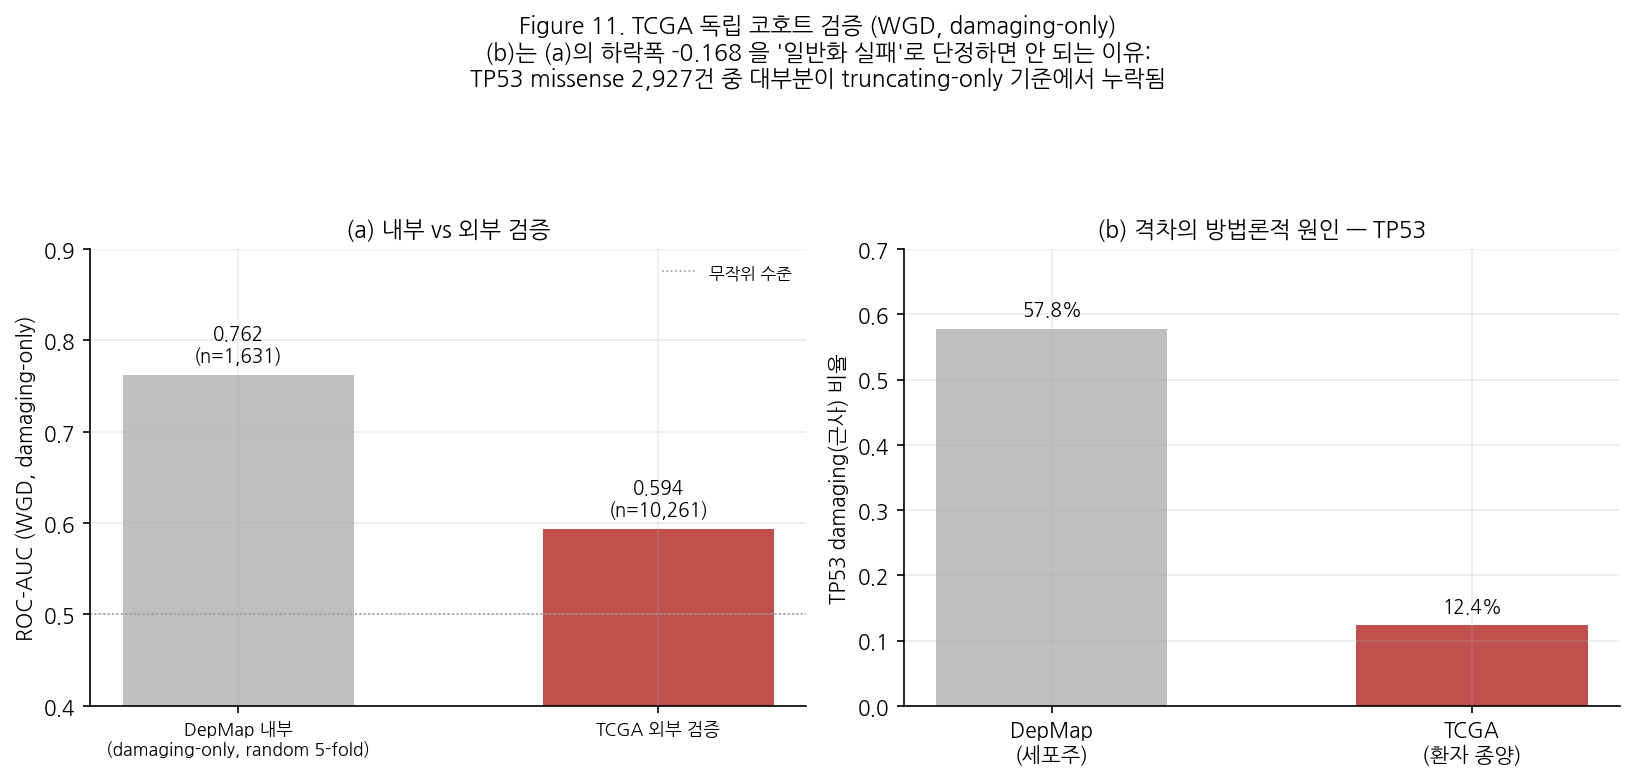
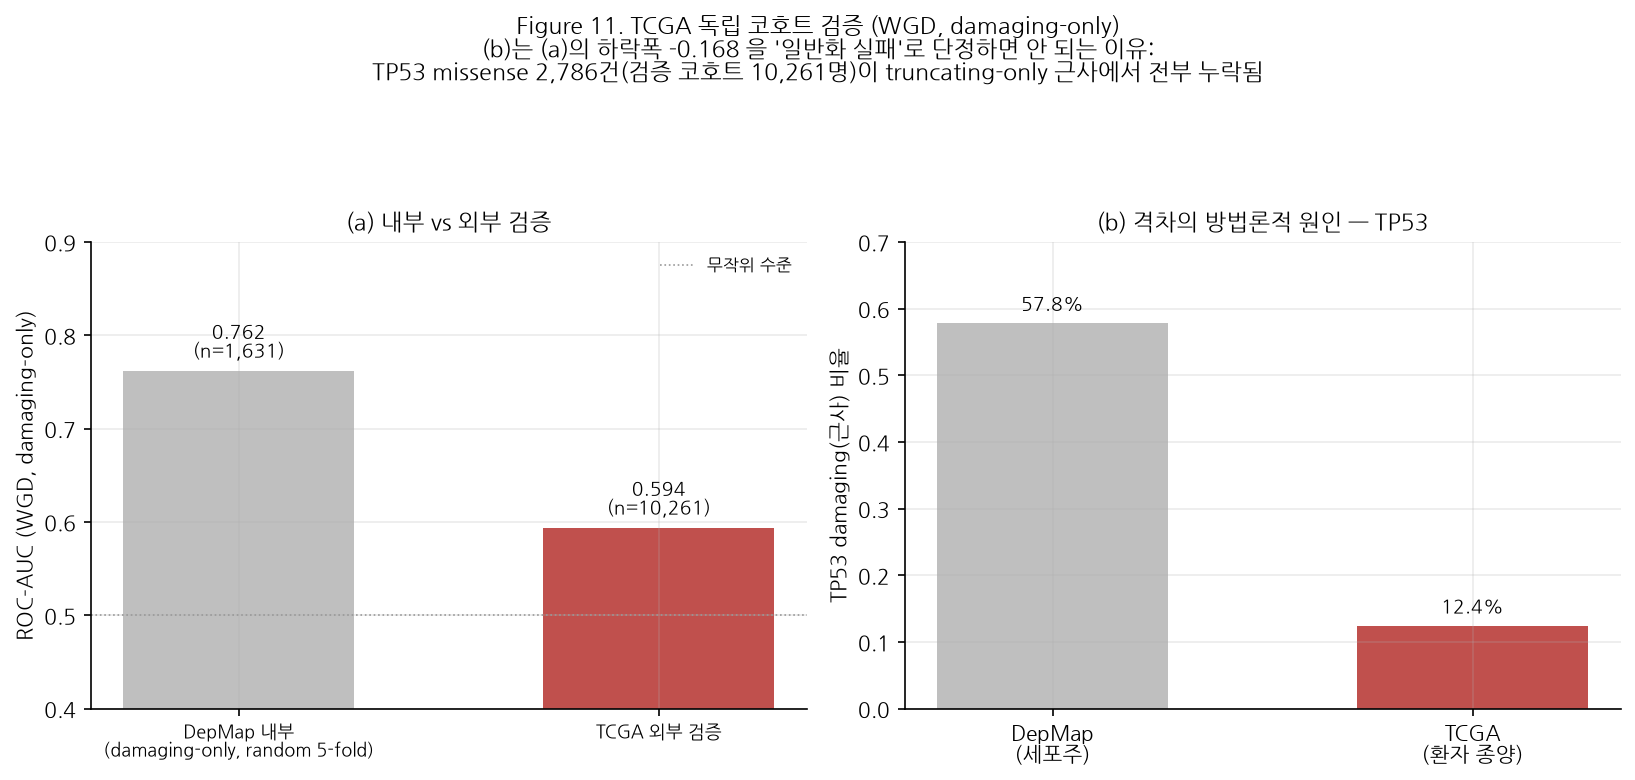
docs: TCGA 검증의 "근사값" 산출 방식을 정리하고 하드코딩을 제거
팀원·교수님이 "TCGA 근사값을 어떻게 낸 것인가" 를 물어왔다. 설명이
docs/gdc/tcga_data_summary.md §4, src/data/tcga.py docstring,
final_conclusion.md 에 흩어져 있어 찾기 어려웠고, 정작 Figure 11 의
TP53 비율은 스크립트에 [0.578, 0.124] 로 하드코딩돼 있어 근거를 볼 수 없었다.

- docs/research/2026-08-27/tcga_approximation.md 신설: 무엇을 근사했고
  (LOF_CLASSES truncating-only) 무엇은 근사가 아닌지(WGD 라벨, barcode 15자
  절단), 근사가 얼마나 어긋나는지(TP53), 결과를 어떻게 읽어야 하는지 정리.
- scripts/22_plot_tcga_validation.py: TP53 비율을 원본에서 계산하도록 변경.
  데이터가 없으면 커밋된 값으로 폴백한다. 검산 결과 하드코딩 값은 정확했다
  (실제 0.5782 / 0.1243).
- MC3 MAF 를 다시 세어 건수의 기준을 명시했다. 기존 "missense 2,927건" 은
  MAF 전체 기준이고, 모델에 실제 들어가는 검증 코호트(10,261명) 기준은
  2,786건이다. Figure 11 캡션과 요약 문서 모두 기준을 밝히도록 고쳤다.

diff --git a/scripts/22_plot_tcga_validation.py b/scripts/22_plot_tcga_validation.py
@@ -21,6 +21,40 @@ from src.viz.style import PHENOTYPE_COLORS, save, use_style
 TABLES = REPO_ROOT / "results" / "tables"
 
 
+def tp53_damaging_rates() -> list[float]:
+    """두 코호트의 TP53 damaging 보유 비율을 원본에서 직접 계산한다.
+
+    예전에는 [0.578, 0.124] 를 하드코딩해 뒀는데, 그 숫자가 어디서 나왔는지
+    그림만 봐서는 알 수 없었다(실제로 "TCGA 근사값을 어떻게 냈나" 라는 질문을
+    받았다). 데이터가 있으면 매번 다시 계산하고, 없을 때만 커밋된 값으로
+    돌아간다.
+
+    DepMap 은 VEP LofTool 기반 LikelyLoF 판정이고, TCGA 는 MC3 MAF 의 표준
+    truncating variant class(src/data/tcga.py 의 LOF_CLASSES)로 근사한 것이다 —
+    두 값은 정의가 완전히 같지 않다. 자세한 내용은
+    docs/gdc/tcga_data_summary.md §4 참고.
+    """
+    from src.data.merge import load_cohort
+
+    fallback = [0.578, 0.124]
+    try:
+        cohort = load_cohort()
+        col = next(c for c in cohort.X.columns if c.startswith("TP53 (7157)_damaging"))
+        depmap_rate = float(cohort.X[col].mean())
+    except Exception as exc:                     # 데이터 미보유 환경
+        print(f"  DepMap TP53 비율 계산 실패({exc.__class__.__name__}) — 커밋된 값 사용")
+        return fallback
+
+    tcga_path = REPO_ROOT / "data" / "gdc" / "tcga_damaging_matrix.parquet"
+    if not tcga_path.exists():
+        print("  tcga_damaging_matrix.parquet 없음 — TCGA 는 커밋된 값 사용")
+        return [depmap_rate, fallback[1]]
+
+    tcga_rate = float(pd.read_parquet(tcga_path, columns=["TP53"])["TP53"].mean())
+    print(f"  TP53 damaging 비율 — DepMap {depmap_rate:.4f} / TCGA {tcga_rate:.4f}")
+    return [depmap_rate, tcga_rate]
+
+
 def main() -> int:
     use_style()
     summary = pd.read_csv(TABLES / "day21_tcga_validation_summary.csv")
@@ -44,7 +78,7 @@ def main() -> int:
     ax = axes[1]
     tp53 = pd.DataFrame({
         "cohort": ["DepMap\n(세포주)", "TCGA\n(환자 종양)"],
-        "rate": [0.578, 0.124],
+        "rate": tp53_damaging_rates(),
     })
     ax.bar(tp53.cohort, tp53.rate, color=["#bfbfbf", PHENOTYPE_COLORS["wgd"]], width=0.55)
     for i, v in enumerate(tp53.rate):
@@ -56,7 +90,7 @@ def main() -> int:
     fig.suptitle(
         "Figure 11. TCGA 독립 코호트 검증 (WGD, damaging-only)\n"
         "(b)는 (a)의 하락폭 -0.168 을 '일반화 실패'로 단정하면 안 되는 이유:\n"
-        "TP53 missense 2,927건 중 대부분이 truncating-only 기준에서 누락됨",
+        "TP53 missense 2,786건(검증 코호트 10,261명)이 truncating-only 근사에서 전부 누락됨",
         y=1.12, fontsize=11,
     )
     fig.tight_layout()

diff --git a/docs/research/2026-08-27/tcga_approximation.md b/docs/research/2026-08-27/tcga_approximation.md
@@ -1,0 +1,95 @@
+# TCGA 검증의 "근사값"은 어떻게 낸 것인가
+
+팀원·교수님 질문: **TCGA 일반화 검증에서 쓴 근사값을 어떻게 낸 것인가?**
+
+## 한 줄 답
+
+DepMap 의 `damaging` 판정(VEP LofTool 기반 `LikelyLoF`)에 해당하는 컬럼이
+TCGA MC3 MAF 에는 없어서, **MAF 의 variant class 중 표준 truncating 계열만
+damaging 으로 세는 방식으로 근사**했다. 근사한 것은 이 한 가지뿐이고,
+**WGD 라벨은 근사가 아니다**(ABSOLUTE 결과의 실제 값을 그대로 쓴다).
+
+## 왜 근사가 필요했나
+
+| | DepMap | TCGA (MC3 MAF) |
+| --- | --- | --- |
+| damaging 판정 | `LikelyLoF` 플래그 (VEP LofTool) | **없음** — variant class 문자열만 있음 |
+| hotspot 판정 | `Hotspot` 플래그 | **없음** (큐레이션 hotspot DB 필요) |
+| WGD 라벨 | `OmicsGlobalSignatures.WGD` | ABSOLUTE `Genome doublings` |
+
+DepMap 이 쓰는 판정 플래그가 TCGA 쪽에 그대로 존재하지 않는다. 그래서
+두 코호트를 같은 feature 종류로 맞추려면 TCGA 쪽을 재구성해야 했다.
+
+## 정확히 무엇을 근사했나
+
+`src/data/tcga.py` 의 다음 집합에 속하는 variant class 만 damaging 1 로 센다.
+
+```python
+LOF_CLASSES = {
+    "Frame_Shift_Del", "Frame_Shift_Ins", "Nonsense_Mutation",
+    "Splice_Site", "Translation_Start_Site", "Nonstop_Mutation",
+}
+```
+
+* `In_Frame_Del` / `In_Frame_Ins` 는 **제외**한다 — reading frame 을 보존하므로
+  표준 LoF 정의에 들어가지 않는다.
+* `Missense_Mutation` 도 제외된다. 이게 이 근사의 가장 큰 한계다(아래 참고).
+* **hotspot 채널은 아예 만들지 않았다.** 그래서 비교 기준이 되는 DepMap 성능도
+  hotspot 을 뺀 **damaging-only** 로 다시 계산한 값을 쓴다
+  (`scripts/21_tcga_validation.py` 1단계). 같은 조건끼리 비교하기 위해서다.
+
+근사가 아닌 것:
+
+* **WGD 라벨** — ABSOLUTE 의 `Genome doublings` 컬럼이 이미 doubling 횟수(0/1/2)라,
+  DepMap 과 같은 정의로 맞추려고 `>= 1` 을 WGD+ 로 이진화만 했다.
+* **barcode 매칭** — ABSOLUTE 와 MC3 는 barcode 뒤쪽(plate/center 코드)이 서로
+  달라 전체 문자열로 join 하면 10,642개 중 12개만 맞는다. TCGA 데이터 병합의
+  표준 관례대로 **앞 15자**(`TCGA-3A-A9IR-01A`)로 잘라 맞춰 91%(9,651개)가
+  매칭된다. 이건 근사가 아니라 관례적 정규화다.
+
+## 이 근사가 얼마나 어긋나는가 — TP53 으로 본 검산
+
+| | DepMap | TCGA |
+| --- | ---: | ---: |
+| TP53 damaging 보유 비율 | **57.8%** | **12.4%** |
+
+같은 유전자인데 5배 가까이 차이난다. 원인은 생물학이 아니라 근사 방식이다.
+TP53 은 우성음성(dominant-negative) **missense** 가 주된 불활성화 경로인
+대표 유전자인데, truncating-only 근사는 그걸 하나도 못 잡는다.
+
+| TP53 변이 건수 | Missense | truncating(근사에 잡히는 것) |
+| --- | ---: | ---: |
+| 검증 코호트(10,261명) 기준 | 2,786 | 1,375 |
+| MC3 MAF 전체 기준 | 2,927 | 1,449 |
+
+즉 **TCGA 쪽 damaging 이 실제보다 과소 계상**돼 있다.
+
+## 그래서 결과를 어떻게 읽어야 하나
+
+| 단계 | ROC-AUC | n |
+| --- | ---: | ---: |
+| DepMap 내부 (damaging-only, random 5-fold) | 0.762 | 1,631 |
+| TCGA 외부 검증 | 0.594 | 10,261 |
+
+하락폭 \-0.168 을 **"세포주에서 환자 종양으로 일반화 실패"로 단정하면 안 된다.**
+TCGA 쪽 입력 feature 자체가 위 근사 때문에 정보를 잃은 상태라, 이 값은
+일반화 성능의 **하한**에 가깝다. 다만 "근사 때문이다"라는 것도 아직 가설이며,
+missense 를 포함한 판정(예: VEP/PolyPhen 재주석)으로 다시 만들어 비교해야
+확정된다 — 남은 과제다.
+
+CIN/LOH 는 TCGA 검증을 하지 못했다. 대응 지표(aneuploidy score, LOH fraction)가
+확보한 ABSOLUTE 파일에 없다.
+
+## 재현
+
+```bash
+python scripts/21_tcga_validation.py     # 내부 baseline + 외부 검증
+python scripts/22_plot_tcga_validation.py  # Figure 11 (TP53 비율은 원본에서 계산)
+```
+
+Figure 11 의 TP53 비율은 예전에 스크립트에 하드코딩돼 있었는데(이 질문이 나온
+이유이기도 하다), 지금은 `data/` 가 있으면 매번 원본에서 다시 계산한다.
+
+더 자세한 내용:
+[docs/gdc/tcga_data_summary.md](../../gdc/tcga_data_summary.md) §4,
+`src/data/tcga.py` docstring.

diff --git a/docs/gdc/tcga_data_summary.md b/docs/gdc/tcga_data_summary.md
@@ -75,11 +75,17 @@ LOF_CLASSES = {
 | `TP53` | 57.8% | 12.4% |
 
 TP53 하나만 봐도 두 코호트 간 격차가 크다. 원인은 생물학이 아니라
-근사 방식의 한계다 — TCGA MC3 MAF 에서 TP53 은 missense 변이가
-2,927건으로 압도적인데, truncating-only 근사는 이를 전혀 잡지 못하고
-nonsense/frameshift/splice 계열 1,448건만 포착한다(TP53 은
-우성음성(dominant-negative) missense 가 주된 불활성화 경로인 대표
-유전자). 즉 TCGA 쪽 damaging 근사가 실제보다 낮게 잡혀 있다 — 이 격차가
+근사 방식의 한계다 — TCGA MC3 MAF 에서 TP53 은 missense 변이가 압도적인데,
+truncating-only 근사는 이를 전혀 잡지 못한다(TP53 은 우성음성
+(dominant-negative) missense 가 주된 불활성화 경로인 대표 유전자).
+
+| TP53 변이 건수 | Missense | truncating(근사에 잡히는 것) |
+| --- | ---: | ---: |
+| 검증 코호트(10,261명) 기준 | 2,786 | 1,375 |
+| MC3 MAF 전체 기준 | 2,927 | 1,449 |
+
+모델에 실제로 들어가는 것은 검증 코호트 기준 행이다. 즉 TCGA 쪽 damaging
+근사가 실제보다 낮게 잡혀 있다 — 이 격차가
 외부 검증 ROC-AUC 를 하한 쪽으로 끌어내리는 주 원인으로 추정된다.
 해석은 [additional_results.md §5](../research/2026-08-19/additional_results.md)
 참고.
